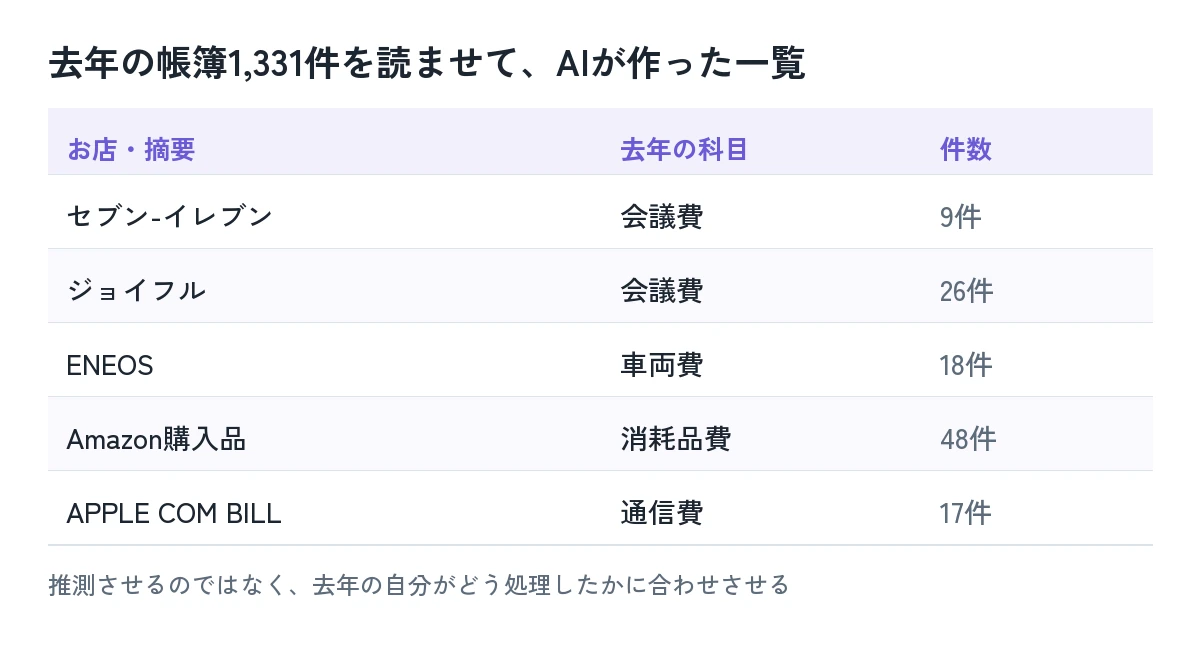
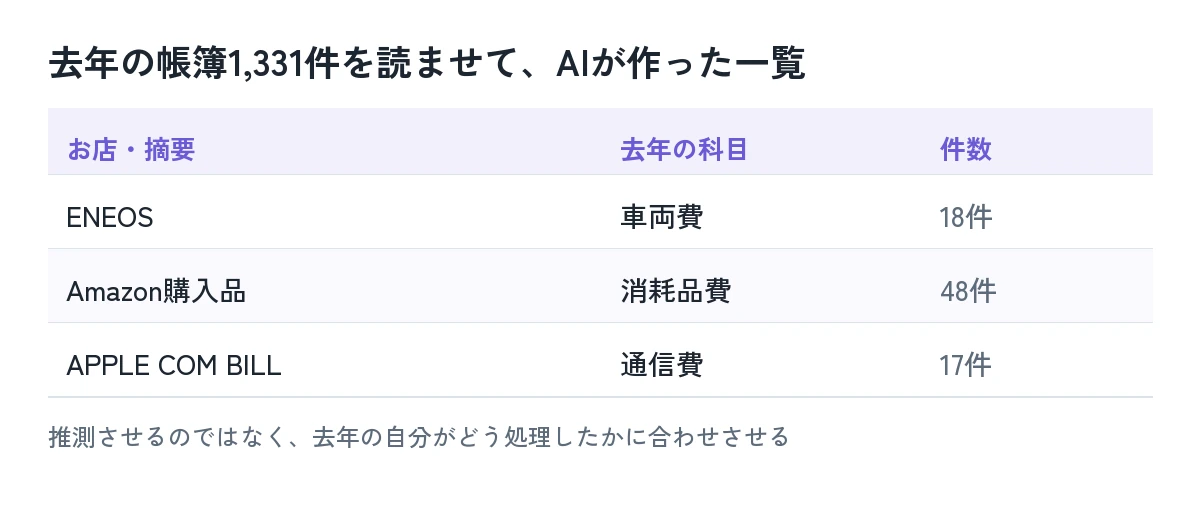
勘定科目の例をコンビニ・ファミレスから差し替え（説明しづらい経費を記事に出さない）
公開済み2本を修正
- ai-daikou-kara-shikumi-he … セブン-イレブン=会議費 の例を ENEOS/Amazon/APPLE COM BILL に
- ai-ni-makaseru-4sou … 表からセブン-イレブン・ジョイフルの行を削除

下書き2本を修正
- kakutei-ai-02 … 表から2行削除。③の例をセブン-イレブンからENEOSに変更
- kakutei-ai-03 … ルール表の例を OPENAI / ANTHROPIC=通信費 に。本文の例も差し替え
- 第3回の図版を作り直し。コンビニの行を含まない2箇所の抜粋に変更
  （GOOGLE PLAY=事業主貸／JR東日本モバイルSuica=旅費交通費と、雲アイコンのAI推測2件）

数字も店名もすべて実データのまま。読んだ人が経費計上の当否に引っかからない例に寄せた。

diff --git a/src/content/blog/kakutei-ai-03-rule-ka.md b/src/content/blog/kakutei-ai-03-rule-ka.md
@@ -47,7 +47,7 @@ AIは科目の候補を判断できても、画面の操作には時間がかか
 |---|---|
 | AMAZON.CO.JP | 消耗品費 |
 | ENEOS | 車両費 |
-| セブン-イレブン | 会議費 |
+| OPENAI / ANTHROPIC | 通信費 |
 | JR東日本モバイルSuica | 旅費交通費 |
 
 ルール作りは、AIの得意分野でした。
@@ -89,10 +89,10 @@ AIに「仕組み作り」をやらせると、来年からずっと楽になり
 
 ただ、中身が前と違いました。
 28件のうち23件は、勘定科目がもう入っている。
-ファミリーマートは会議費、JR東日本モバイルSuicaは旅費交通費。
+JR東日本モバイルSuicaは旅費交通費、GOOGLE PLAY JAPANは事業主貸。
 7月に作ったルールが、そのまま効いていました。
 
-![会計ソフトの取り込み画面。ファミリーマートは会議費、JR東日本モバイルSuicaは旅費交通費、GOOGLE PLAY JAPANは事業主貸と、勘定科目がすでに入っている。雲アイコンが付いた行はAIが推測したもので、CANVAの支払いが車両費になっている](/assets/images/blog/zu-kakutei-rule-1kagetsugo.webp)
+![会計ソフトの取り込み画面から2箇所を抜粋。GOOGLE PLAY JAPANは事業主貸、JR東日本モバイルSuicaは旅費交通費と、自分で作ったルールが勘定科目を入れている。雲アイコンが付いた行は会計ソフトのAIが推測したもので、CANVAの支払いが車両費になっている](/assets/images/blog/zu-kakutei-rule-1kagetsugo.webp)
 
 **「未仕訳」は「科目が決まっていない」という意味ではない**
 

diff --git a/src/content/blog/kakutei-ai-02-kyonen-kyokasho.md b/src/content/blog/kakutei-ai-02-kyonen-kyokasho.md
@@ -43,8 +43,6 @@ AIが悪いわけではありません。
 
 | お店・摘要 | 去年の科目 | 件数 |
 |---|---|---|
-| セブン-イレブン | 会議費 | 9件 |
-| ジョイフル | 会議費 | 26件 |
 | ENEOS | 車両費 | 18件 |
 | Amazon購入品 | 消耗品費 | 48件 |
 | APPLE COM BILL | 通信費 | 17件 |
@@ -57,8 +55,8 @@ AIが悪いわけではありません。
 
 この一覧ができてからは、判断のさせ方が変わりました。
 
-セブン-イレブンは、去年9件すべて会議費だった。
-なので今年も会議費に入れる。
+ENEOSは、去年18件すべて車両費だった。
+なので今年も車両費に入れる。
 **AIに推測させるのではなく、去年の自分の処理に合わせさせる。**
 これだけで、科目のバラつきはほぼ消えました。
 

diff --git a/src/content/blog/ai-daikou-kara-shikumi-he.md b/src/content/blog/ai-daikou-kara-shikumi-he.md
@@ -38,7 +38,7 @@ draft: false
 
 去年の仕訳1,331件を全部読ませて、摘要ごとにどの科目を使ったかを数えました。出てくるのは処理結果ではなく、一覧表です。
 
-セブン-イレブンは去年9件すべて会議費。ENEOSは18件すべて車両費。Amazonの購入品は48件が消耗品費。
+ENEOSは去年18件すべて車両費。Amazonの購入品は48件が消耗品費。APPLE COM BILLは17件が通信費。
 
 1,331件を人が数えるのは、正直やる気になりません。**量を数える仕事は、AIが一番強いところ**です。
 
